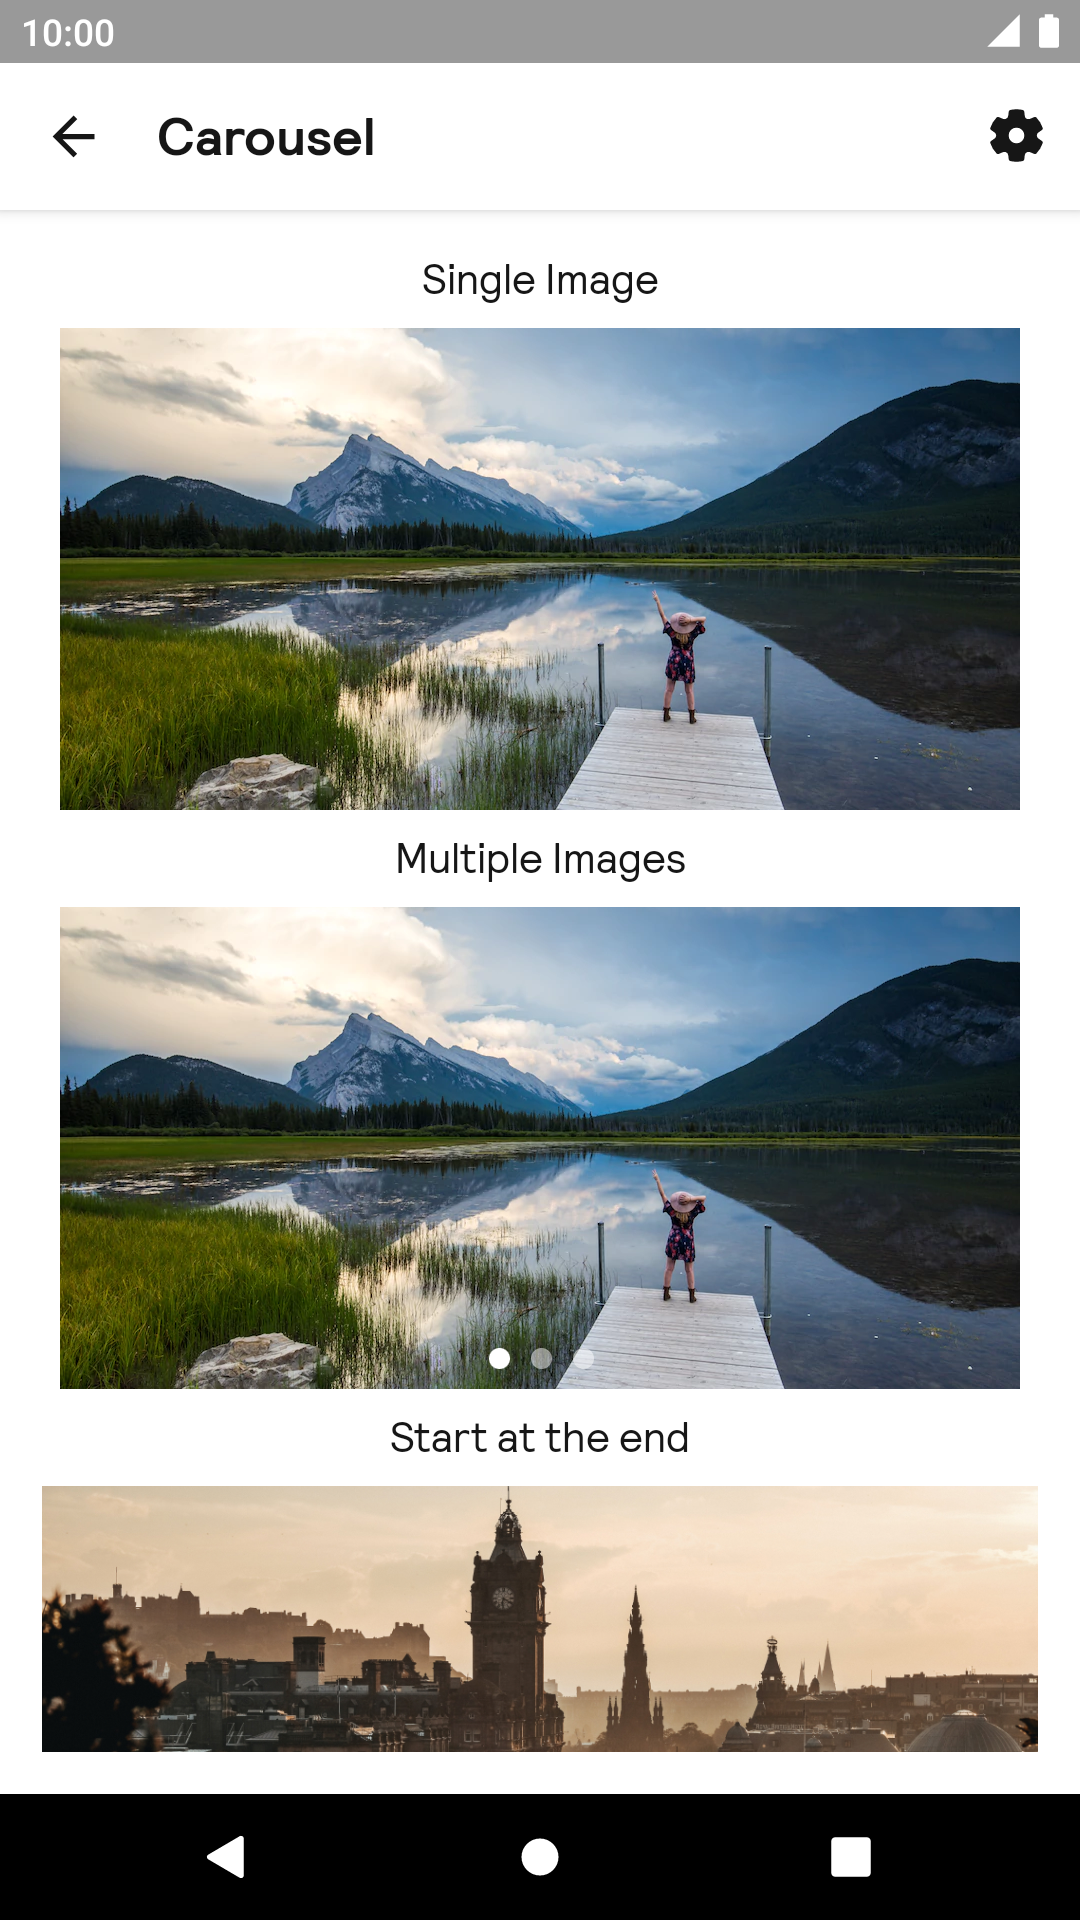
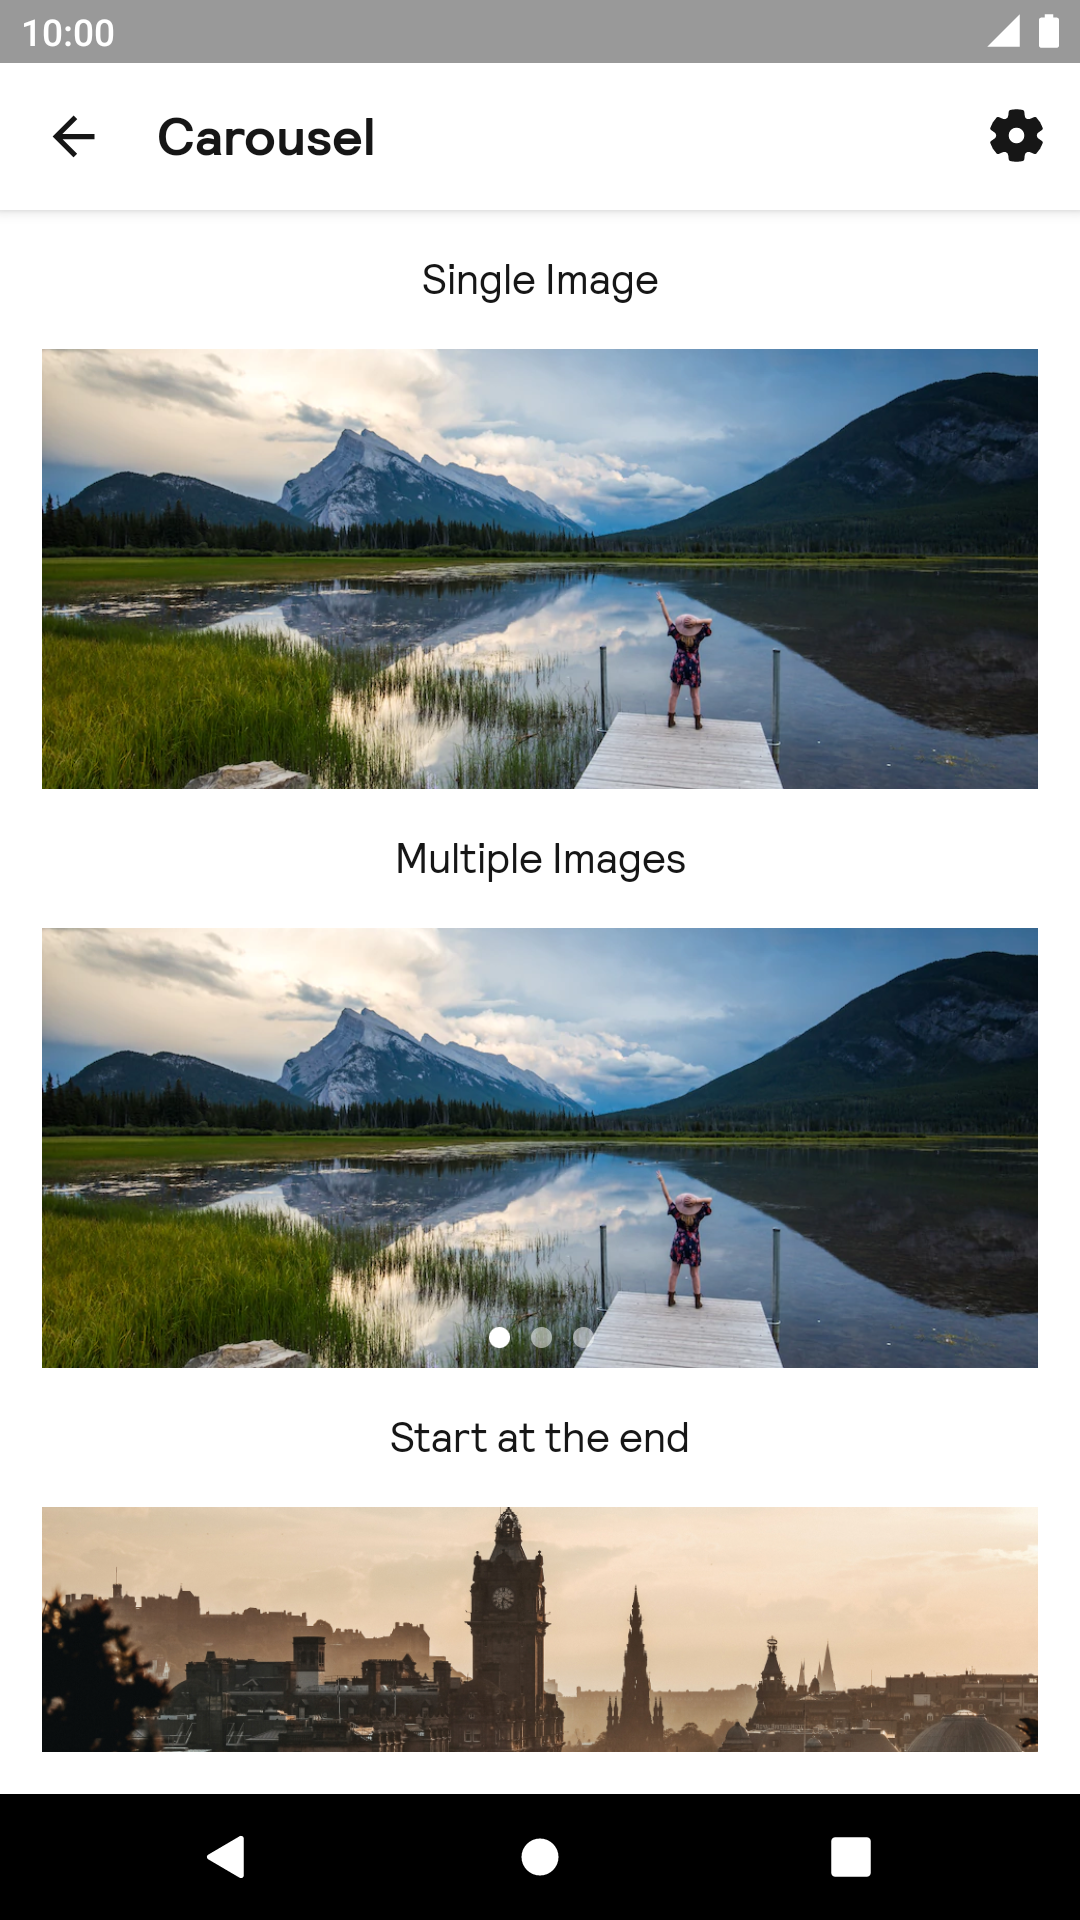
Update screen shots and Readme

Changed region(s): [[0.0306, 0.4688, 0.9778, 0.8125], [0.0306, 0.1562, 0.9778, 0.4375]]

diff --git a/app/src/androidTest/java/net/skyscanner/backpack/compose/carousel/BpkCarouselTest.kt b/app/src/androidTest/java/net/skyscanner/backpack/compose/carousel/BpkCarouselTest.kt
@@ -21,6 +21,7 @@ package net.skyscanner.backpack.compose.carousel
 import androidx.compose.foundation.Image
 import androidx.compose.ui.res.painterResource
 import androidx.test.ext.junit.runners.AndroidJUnit4
+import com.google.accompanist.pager.ExperimentalPagerApi
 import net.skyscanner.backpack.BpkTestVariant
 import net.skyscanner.backpack.Variants
 import net.skyscanner.backpack.compose.BpkSnapshotTest
@@ -31,48 +32,40 @@ import net.skyscanner.backpack.demo.R
 @RunWith(AndroidJUnit4::class)
 class BpkCarouselTest : BpkSnapshotTest() {
 
+  @OptIn(ExperimentalPagerApi::class)
   @Test
   fun singleImageDefault() = snap {
     BpkCarousel(
       count = 1,
-      imageContent = {
-        Image(painter = painterResource(id = imageResAtIndex(it)), contentDescription = "")
-      }
     ) {
-
+      Image(painter = painterResource(id = imageResAtIndex(it)), contentDescription = "")
     }
   }
 
+  @OptIn(ExperimentalPagerApi::class)
   @Test
   fun multipleImageDefault() = snap {
-    BpkCarousel(
-      count = 3,
-      imageContent = {
-        Image(painter = painterResource(id = imageResAtIndex(it)), contentDescription = "")
-      }
-    )
+    BpkCarousel(count = 3, imageContent = {
+      Image(painter = painterResource(id = imageResAtIndex(it)), contentDescription = "")
+    })
   }
 
+
+  @OptIn(ExperimentalPagerApi::class)
   @Test
   fun setCurrentImage() = snap {
-    BpkCarousel(
-      count = 3,
-      currentImage = 1,
-      imageContent = {
-        Image(painter = painterResource(id = imageResAtIndex(it)), contentDescription = "")
-      }
-    )
+    BpkCarousel(count = 3, imageContent = {
+      Image(painter = painterResource(id = imageResAtIndex(it)), contentDescription = "")
+    })
   }
 
+  @OptIn(ExperimentalPagerApi::class)
   @Test
   @Variants(BpkTestVariant.Default, BpkTestVariant.DarkMode)
   fun multipleImageDarkMode() = snap {
-    BpkCarousel(
-      count = 2,
-      imageContent = {
-        Image(painter = painterResource(id = imageResAtIndex(it)), contentDescription = "")
-      }
-    )
+    BpkCarousel(count = 2, imageContent = {
+      Image(painter = painterResource(id = imageResAtIndex(it)), contentDescription = "")
+    })
   }
 
   private fun imageResAtIndex(index: Int) = when (index) {

diff --git a/docs/compose/Carousel/README.md b/docs/compose/Carousel/README.md
@@ -21,12 +21,9 @@ Example of a Carousel:
 ```Kotlin
 import net.skyscanner.backpack.compose.carousel.BpkCarousel
 
-BpkCarousel(
-  count = 3,
-  imageContent = {
-    Image(painter = painterResource(id = imageResAtIndex(it)), contentDescription = "")
-  }
-)
+BpkCarousel(count = 3){ index ->
+  Image(painter = painterResource(id = imageResAtIndex(index)), contentDescription = "")
+}
 ```
 
 Example of a image changed callback:
@@ -36,10 +33,26 @@ import net.skyscanner.backpack.compose.carousel.BpkCarousel
 
 BpkCarousel(
   count = 3,
-  imageContent = {
-    Image(painter = painterResource(id = imageResAtIndex(it)), contentDescription = "")
-  },
+  onImageChanged = {  index ->
+    // do something
+  }
 ) { index ->
-  // do something
+  Image(painter = painterResource(id = imageResAtIndex(index)), contentDescription = "")
+}
+```
+
+Example of starting in a different image:
+
+```Kotlin
+import net.skyscanner.backpack.compose.carousel.BpkCarousel
+import net.skyscanner.backpack.compose.carousel.rememberCarouselPagerState
+
+val pagerState = rememberCarouselPagerState(currentImage = 1) // show carousel with image index 1
+
+BpkCarousel(
+  count = 3,
+  pagerState = pagerState,
+) { index ->
+  Image(painter = painterResource(id = imageResAtIndex(index)), contentDescription = "")
 }
 ```
